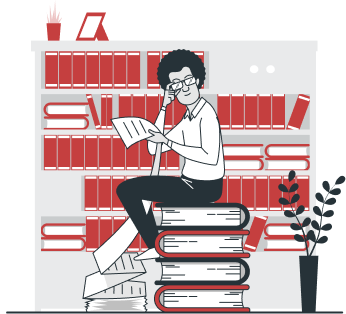
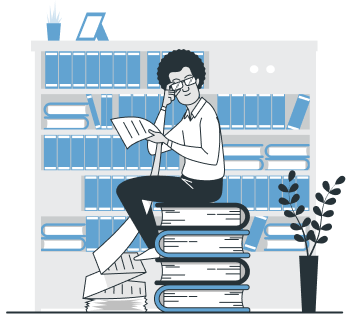
feat: adding splash page

diff --git a/lib/modules/book_info/book_info.dart b/lib/modules/book_info/book_info.dart
@@ -1,0 +1,55 @@
+import 'package:alpha_bookstore/shared/widgets/book/book.dart';
+import 'package:flutter/material.dart';
+
+class BookInfoPage extends StatelessWidget {
+  const BookInfoPage({super.key});
+
+  final Color bookCover = Colors.red;
+  final String bookTitle = "Catcher in the Rye";
+  final String bookAuthor = "J.D. Salinger";
+  final String authorDescription =
+      "Cillum sunt officia in nulla. Adipisicing exercitation eiusmod nisi ut eu. Incididunt ullamco proident dolore irure cillum exercitation est. Elit occaecat labore elit voluptate amet nostrud dolore laborum id. Excepteur ex est est cupidatat. Ut mollit adipisicing ullamco ea qui tempor ipsum eiusmod dolore cupidatat veniam. Laborum esse anim qui aute deserunt. Incididunt velit exercitation pariatur dolor voluptate adipisicing. Lorem id cillum deserunt excepteur id sit. Nisi occaecat nostrud et anim esse sit reprehenderit ad excepteur nostrud quis. Quis consequat id proident ea pariatur irure occaecat officia. Aliquip labore ipsum reprehenderit ullamco adipisicing consequat amet minim in.";
+  final String bookDescription =
+      "Lorem dolore elit ullamco id. Adipisicing ullamco ullamco voluptate proident laborum. Aliquip non eiusmod veniam consequat nulla consequat commodo adipisicing fugiat mollit duis aliqua mollit eu. Est Lorem eu sint aliquip non est. Eiusmod culpa dolore commodo adipisicing reprehenderit aute. Deserunt quis quis fugiat eiusmod occaecat fugiat tempor nisi consectetur amet labore excepteur. Culpa ullamco ut incididunt adipisicing proident voluptate veniam deserunt. Ad laboris non cupidatat anim proident fugiat laborum et et. Non mollit id duis ad est amet laboris minim.";
+  final String bookCode = "P198.00";
+
+  @override
+  Widget build(BuildContext context) {
+    return Scaffold(
+        appBar: AppBar(
+          leading: const BackButton(),
+          title: Text(bookTitle),
+          actions: [
+            IconButton(
+                onPressed: () {},
+                icon: const Icon(
+                  Icons.favorite,
+                  color: Colors.red,
+                ))
+          ],
+        ),
+        body: SingleChildScrollView(
+            child: Column(children: [
+          Expanded(
+            child: Book(
+              title: bookTitle,
+              cover: bookCover,
+              author: bookAuthor,
+              code: bookCode,
+            ),
+          ),
+          const Expanded(
+              child: Text.rich(TextSpan(text: "Sobre o Autor", children: [
+            TextSpan(
+                text:
+                    "Veniam proident mollit ut velit proident aliquip occaecat est ipsum duis. Culpa commodo aute sint nulla labore nulla incididunt aute esse veniam officia velit. Anim nisi irure anim minim labore nisi aute id. Fugiat reprehenderit voluptate laboris in fugiat deserunt pariatur in. Eu exercitation anim veniam id voluptate labore exercitation eiusmod culpa veniam quis sit. Magna ex laboris sunt eu. Ea fugiat qui fugiat in. Mollit occaecat consequat est cillum anim voluptate quis adipisicing deserunt cupidatat adipisicing enim est. Ea aliquip ea Lorem veniam dolor officia labore voluptate occaecat aliquip enim. Ut non aliquip adipisicing magna cillum id consequat sit enim tempor nostrud incididunt consequat. Dolor fugiat qui commodo ut esse quis cillum non culpa minim adipisicing.")
+          ]))),
+          const Expanded(
+              child: Text.rich(TextSpan(text: "Sobre o Obra", children: [
+            TextSpan(
+                text:
+                    "Veniam proident mollit ut velit proident aliquip occaecat est ipsum duis. Culpa commodo aute sint nulla labore nulla incididunt aute esse veniam officia velit. Anim nisi irure anim minim labore nisi aute id. Fugiat reprehenderit voluptate laboris in fugiat deserunt pariatur in. Eu exercitation anim veniam id voluptate labore exercitation eiusmod culpa veniam quis sit. Magna ex laboris sunt eu. Ea fugiat qui fugiat in. Mollit occaecat consequat est cillum anim voluptate quis adipisicing deserunt cupidatat adipisicing enim est. Ea aliquip ea Lorem veniam dolor officia labore voluptate occaecat aliquip enim. Ut non aliquip adipisicing magna cillum id consequat sit enim tempor nostrud incididunt consequat. Dolor fugiat qui commodo ut esse quis cillum non culpa minim adipisicing.")
+          ])))
+        ])));
+  }
+}

diff --git a/lib/app_widget.dart b/lib/app_widget.dart
@@ -1,7 +1,9 @@
+import 'package:alpha_bookstore/modules/book_info/book_info.dart';
 import 'package:alpha_bookstore/modules/home/home_page.dart';
 import 'package:alpha_bookstore/modules/login/login_page.dart';
 import 'package:alpha_bookstore/modules/on_boarding/on_boarding_page.dart';
 import 'package:alpha_bookstore/modules/register/register_page.dart';
+import 'package:alpha_bookstore/modules/splash/splash.dart';
 import 'package:alpha_bookstore/shared/theme/app_colors.dart';
 import 'package:flutter/material.dart';
 
@@ -16,13 +18,15 @@ class AppWidget extends StatelessWidget {
         primaryColor: AppColors.primary,
         primarySwatch: Colors.red,
       ),
-      initialRoute: "/home",
+      initialRoute: "/splash",
       routes: {
         // '/splash': Splash
+        '/splash': (context) => const SplashPage(),
         '/onBoard': (context) => const OnBoardingPage(),
         '/login': (context) => const LoginPage(),
         '/register': (context) => const RegisterPage(),
         '/home': (context) => const HomePage(),
+        '/bookInfo': (context) => const BookInfoPage(),
       },
     );
   }

diff --git a/lib/modules/splash/splash.dart b/lib/modules/splash/splash.dart
@@ -1,0 +1,27 @@
+import 'package:alpha_bookstore/shared/theme/app_colors.dart';
+import 'package:alpha_bookstore/shared/theme/app_images.dart';
+import "package:flutter/material.dart";
+
+class SplashPage extends StatelessWidget {
+  const SplashPage({super.key});
+
+  Future<void> pushHome(BuildContext context) async {
+    await Future.delayed(const Duration(seconds: 3)).then(
+      (value) {
+        Navigator.of(context).pushNamed("/home");
+      },
+    );
+  }
+
+  @override
+  Widget build(BuildContext context) {
+    pushHome(context);
+    return Scaffold(
+        backgroundColor: AppColors.primary,
+        body: Center(
+            child: SizedBox(
+                height: 300,
+                width: 300,
+                child: Image.asset(AppImages.splash))));
+  }
+}

diff --git a/lib/modules/home/home_page.dart b/lib/modules/home/home_page.dart
@@ -1,4 +1,3 @@
-import 'package:alpha_bookstore/shared/theme/app_colors.dart';
 import 'package:alpha_bookstore/shared/theme/text_styles.dart';
 import 'package:alpha_bookstore/shared/widgets/book/book.dart';
 import 'package:alpha_bookstore/shared/widgets/text_input/text_input.dart';
@@ -9,10 +8,12 @@ class HomePage extends StatelessWidget {
 
   @override
   Widget build(BuildContext context) {
+    final Size size = MediaQuery.of(context).size;
+
     return SingleChildScrollView(
       scrollDirection: Axis.vertical,
       child: SizedBox(
-        height: 10000000000000000000000,
+        height: size.height * 1.3,
         child: Scaffold(
           backgroundColor: Colors.white,
           appBar: AppBar(

diff --git a/lib/shared/theme/app_images.dart b/lib/shared/theme/app_images.dart
@@ -2,6 +2,7 @@ class AppImages {
   static const fullLogo = "assets/images/logo.png";
   static const logo = "assets/images/small_logo.png";
   static const onBoarding = "assets/images/onBoarding.png";
+  static const splash = "assets/images/splash_logo.png";
   static const profile = "assets/images/profile.png";
   static const bookCover1 = "assets/images/book_cover_1.png";
   static const bookCover2 = "assets/images/book_cover_2.png";

diff --git a/lib/shared/theme/app_colors.dart b/lib/shared/theme/app_colors.dart
@@ -1,7 +1,7 @@
 import "package:flutter/material.dart";
 
 class AppColors {
-  static const primary = Color(0xffef5a5a);
+  static const primary = Color(0xff66B8D3);
   static const gray = Color(0xff8e8e93);
   static const lightGray = Color(0xff8e8e93);
   static const green = Color(0xff3eb489);
